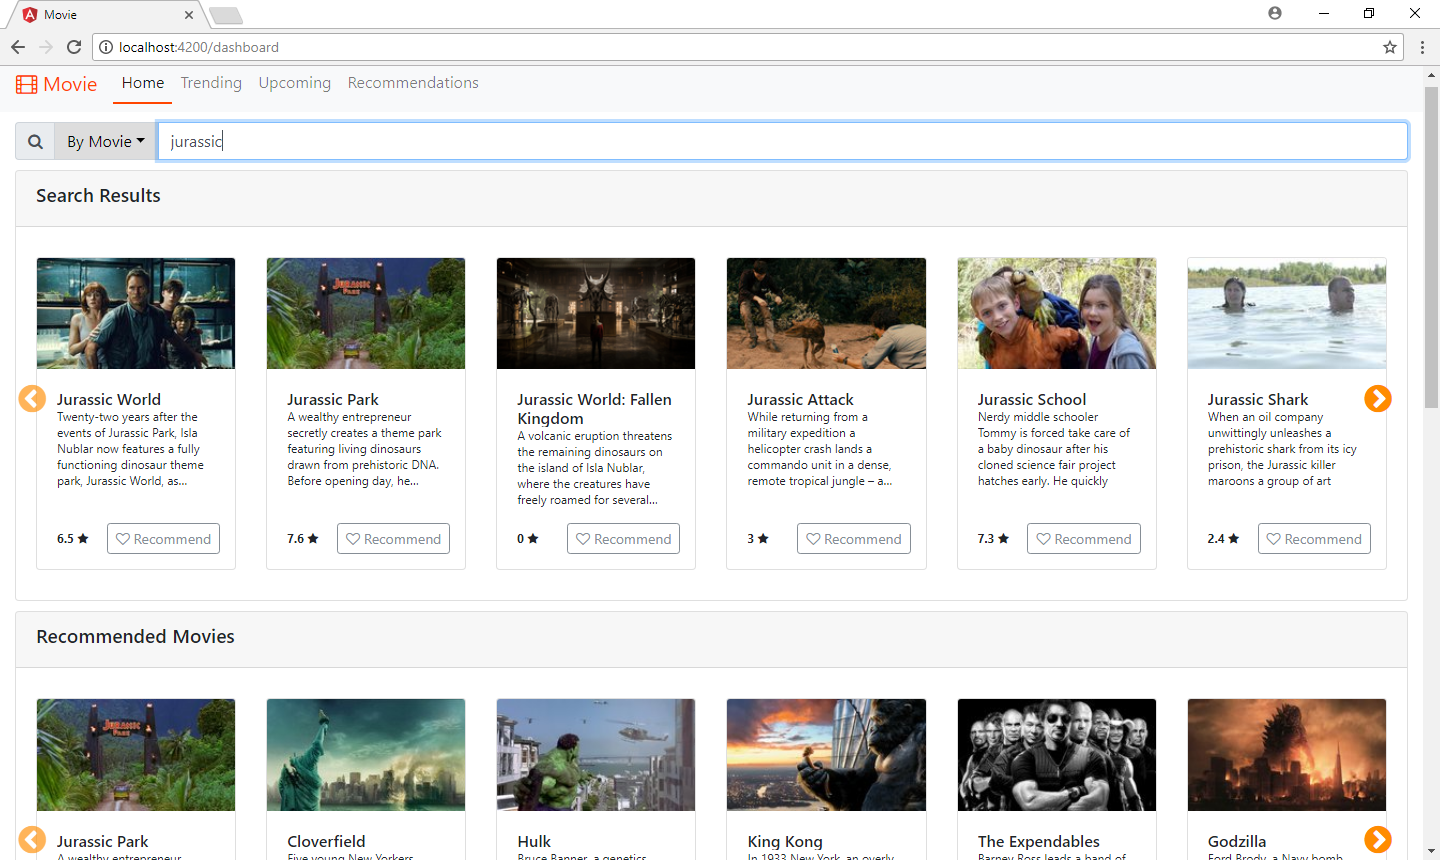
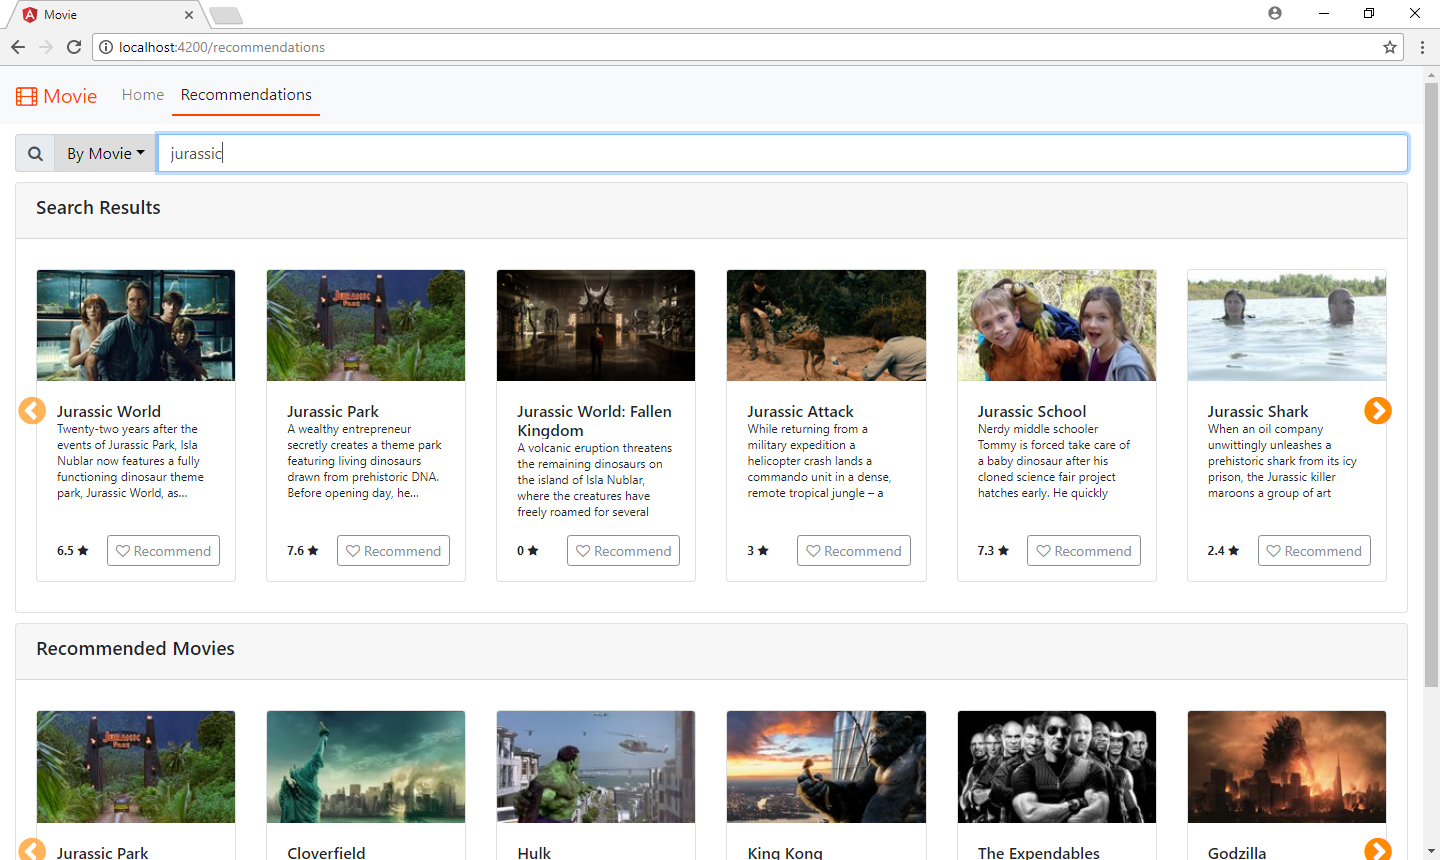
review comment navigation

diff --git a/frontend/movie-app/src/app/app.component.html b/frontend/movie-app/src/app/app.component.html
@@ -6,13 +6,7 @@
                 <a class="nav-link" [routerLinkActive]="['active']" routerLink="/dashboard">Home</a>
             </li>
             <li class="nav-item">
-                <a class="nav-link" [routerLinkActive]="['active']" routerLink="/movies/trending">Trending</a>
-            </li>
-            <li class="nav-item">
-                <a class="nav-link" [routerLinkActive]="['active']" routerLink="/movies/upcoming">Upcoming</a>
-            </li>
-            <li class="nav-item">
-                <a class="nav-link" [routerLinkActive]="['active']" routerLink="/movies/recommended">Recommendations</a>
+                <a class="nav-link" [routerLinkActive]="['active']" routerLink="/recommendations">Recommendations</a>
             </li>
         </ul>
     </nav>

diff --git a/frontend/movie-app/src/app/app-routing.module.ts b/frontend/movie-app/src/app/app-routing.module.ts
@@ -1,14 +1,12 @@
 import { NgModule } from '@angular/core';
 import { RouterModule, Routes } from '@angular/router';
 import { DashboardComponent } from './dashboard/dashboard.component';
-import { MoviesComponent } from 'app/movies/movies.component';
+import { SearchComponent } from 'app/search/search.component';
 
 const routes: Routes = [
   { path: 'dashboard', component: DashboardComponent },
   { path: '', redirectTo: '/dashboard', pathMatch: 'full' },
-  { path: 'movies/trending', component: MoviesComponent },
-  { path: 'movies/upcoming', component: MoviesComponent },
-  { path: 'movies/recommended', component: MoviesComponent },
+  { path: 'recommendations', component: SearchComponent }
 ];
 
 @NgModule({

diff --git a/frontend/movie-app/src/app/movies/movies.component.ts b/frontend/movie-app/src/app/movies/movies.component.ts
@@ -1,5 +1,4 @@
 import { Component, OnInit, Input, Output, EventEmitter } from '@angular/core';
-import { ActivatedRoute } from '@angular/router';
 import { Movie } from 'app/movie';
 import { MovieService } from 'app/movie.service';
 
@@ -15,12 +14,7 @@ export class MoviesComponent implements OnInit {
   @Input() selectedMovieId: number;
   i = 0;
 
-  constructor(private route: ActivatedRoute, private movieService: MovieService) {
-
-    if (route.snapshot.url && route.snapshot.url.length > 0) {
-      this.section = route.snapshot.url.pop().path;
-    }
-  }
+  constructor(private movieService: MovieService) {}
 
   ngOnInit() {
     if (this.section === 'trending') {

diff --git a/frontend/movie-app/src/app/dashboard/dashboard.component.html b/frontend/movie-app/src/app/dashboard/dashboard.component.html
@@ -1,3 +1,2 @@
-<app-search></app-search> <!-- search bar with #search-results and #recommendations -->
 <app-movies #trending id="trending" [section]="'trending'"></app-movies>
 <app-movies #forthcoming id="forthcoming" [section]="'upcoming'"></app-movies>
